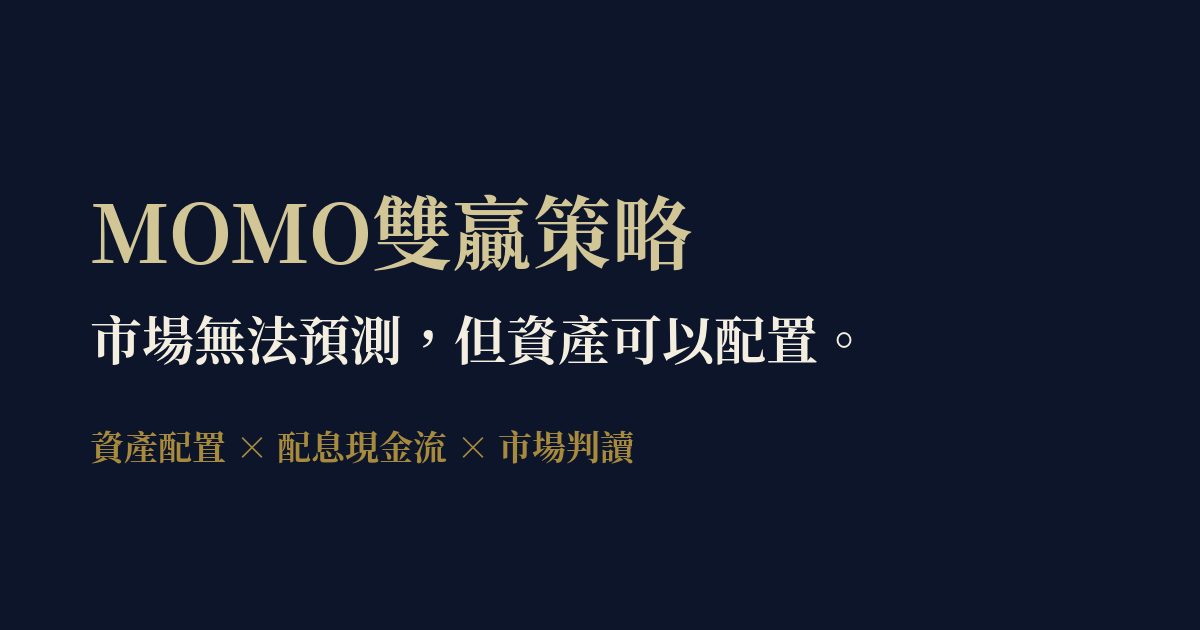
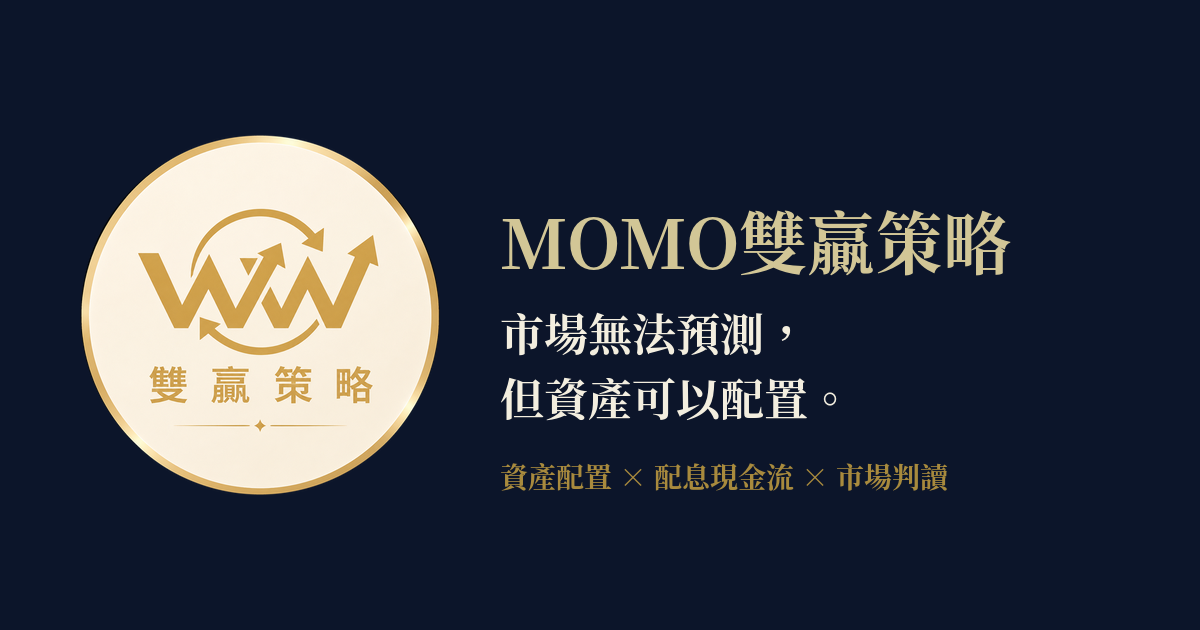
Add files via upload

Changed region(s): [[0.0617, 0.2111, 0.8633, 0.7841]]

diff --git a/index.html b/index.html
@@ -7,7 +7,9 @@
   <meta name="description" content="MOMO雙贏策略：保單基金規劃與資產配置教育。用白話把基金、配息與配置講清楚，收錄文章與試算工具。" />
   <link rel="canonical" href="https://nms3194949.github.io/" />
   <meta name="theme-color" content="#f6f1e7" />
-  <link rel="icon" href="/favicon.svg" type="image/svg+xml" />
+  <link rel="icon" href="/favicon.ico" sizes="48x48" />
+  <link rel="icon" href="/icon-192.png" type="image/png" sizes="192x192" />
+  <link rel="apple-touch-icon" href="/apple-touch-icon.png" />
 
   <meta property="og:type" content="website" />
   <meta property="og:site_name" content="MOMO雙贏策略" />
@@ -62,7 +64,7 @@
     .wrap { max-width: 720px; margin: 0 auto; padding: 0 20px; }
     header { border-bottom: 1px solid var(--line); }
     .brand { display: flex; align-items: center; gap: 10px; height: 60px; font-weight: 800; text-decoration: none; }
-    .mark { width: 30px; height: 30px; border-radius: 8px; background: var(--ink); color: var(--gold-soft); display: grid; place-items: center; font-family: var(--serif); }
+    .mark { width: 32px; height: 32px; border-radius: 50%; display: block; }
     .hero { padding: 64px 0 36px; }
     .eyebrow { color: var(--gold); font-weight: 700; font-size: 14px; letter-spacing: .12em; margin: 0 0 12px; }
     h1 { font-family: var(--serif); font-weight: 800; font-size: clamp(32px, 7vw, 46px); line-height: 1.35; margin: 0 0 18px; }
@@ -87,7 +89,7 @@
 <body>
   <header>
     <div class="wrap">
-      <a class="brand" href="/"><span class="mark">M</span>MOMO雙贏策略</a>
+      <a class="brand" href="/"><img class="mark" src="/icon-96.png" alt="" width="32" height="32" />MOMO雙贏策略</a>
     </div>
   </header>
 

diff --git a/404.html b/404.html
@@ -5,7 +5,7 @@
   <meta name="viewport" content="width=device-width, initial-scale=1" />
   <meta name="robots" content="noindex" />
   <title>找不到頁面｜MOMO雙贏策略</title>
-  <link rel="icon" href="/favicon.svg" type="image/svg+xml" />
+  <link rel="icon" href="/favicon.ico" sizes="48x48" />
   <style>
     body { margin: 0; min-height: 100vh; display: grid; place-items: center; background: #f6f1e7; color: #0c152a; font-family: -apple-system, BlinkMacSystemFont, 'PingFang TC', 'Noto Sans TC', 'Microsoft JhengHei', sans-serif; text-align: center; padding: 20px; }
     h1 { font-size: 26px; margin: 0 0 8px; }
